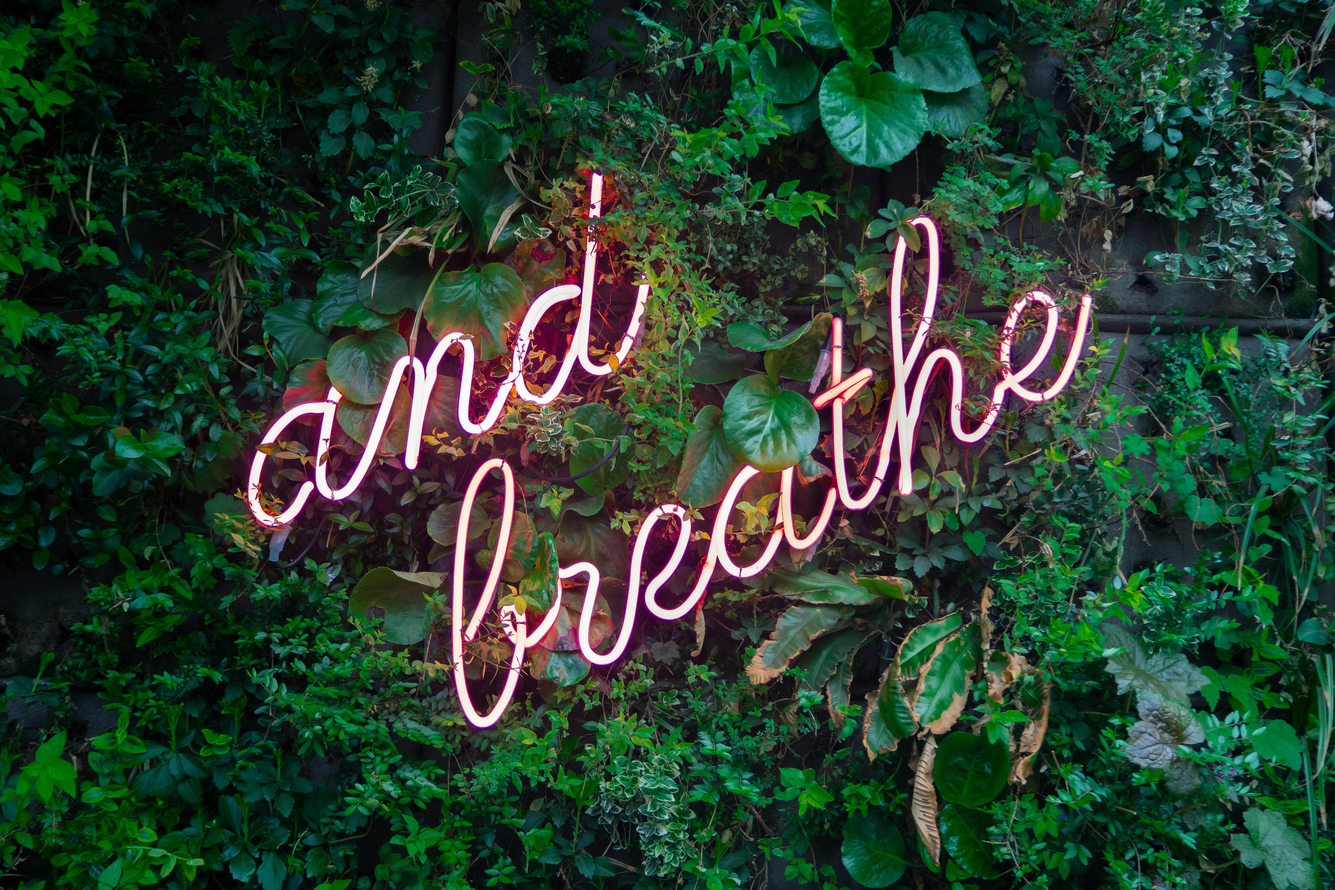
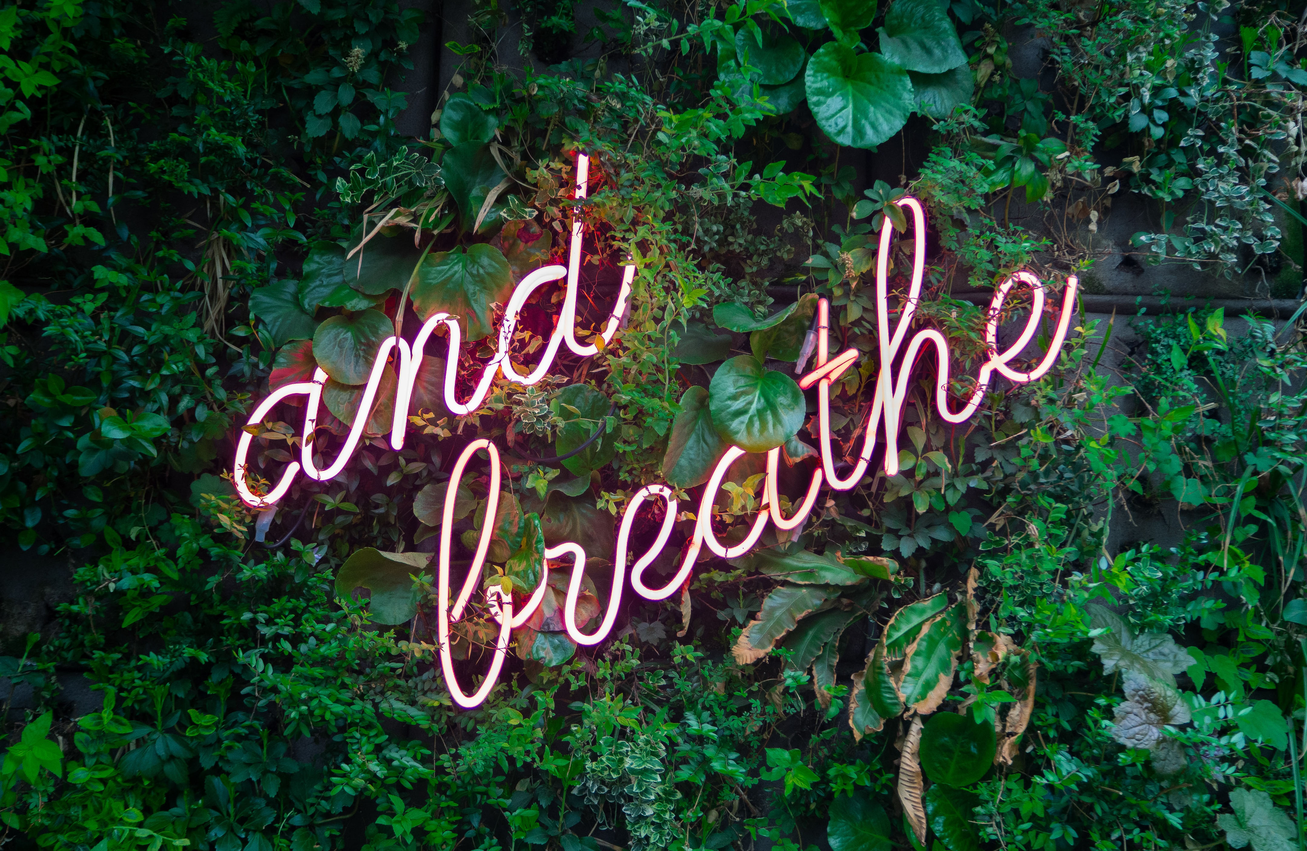
update

diff --git a/unit_4/index.html b/unit_4/index.html
@@ -70,6 +70,40 @@
 </section>
 <hr>
 <section>
+	<a href=""><h2>Self Care</h2></a>
+		<a href="#"><img src="images/selfcare1.jpg" alt="and breathe sign" width="600" height="400"></a>
+	<section>
+		<a href="#"><h3>Check your pulse&mdash;Have you had a moment to breathe today?</h3></a>
+		<br><br>
+		<p>Just because there is no "I" in montherhood doesn't me you shouldn't dedicate time to focusing on yours truly.<br><br>
+		Lorem ipsum dolor sit amet, consectetur adipisicing elit, sed do eiusmod
+		tempor incididunt ut labore et dolore magna aliqua. Ut enim ad minim veniam.<br><br>
+		</p>
+		<a href="#"><h3>Read More</h3></a>
+	</section>
+</section>
+<hr>
+<section>
+	<a href=""><h2>Shop/Drop</h2></a>
+	<section>
+		<a href="#"><img src="images/shopbooks.jpg" alt="books" width="300" height="200"></a>
+		<a href="#"><p>Browse our list of recommended kiddie lit&mdash;because you can only read <i>Goodnight Moon</i> so many times.</p></a>
+	</section>
+	<section>
+		<a href="#"><img src="images/shopsleep.jpg" alt="pajamas" width="300" height="200"></a>
+		<a href="#"><p>Your babe still might fight bed time, but they'll look a lot cuter while whining in these pj's.</p></a>
+	</section>
+	<section>
+		<a href="#"><img src="images/shoptoys.jpg" alt="toys" width="300" height="200"></a>
+		<a href="#"><p>Because you don't have enough toys... don't worry these are proven to boost baby's brain &#128074;</p></a>
+	</section>
+	<section>
+		<a href="#"><img src="images/shopyou.jpg" alt="woman smiling" width="300" height="200"></a>
+		<a href="#"><p>Hey mom, treat yourself here (cuz you deserve it)</p></a>
+	</section>
+</section>
+<hr>
+<section>
 	<section>
 		<a href="#"><img src="images/logo_transparent.png" alt="hood logo" width="200" height="200"></a>
 	</section>
